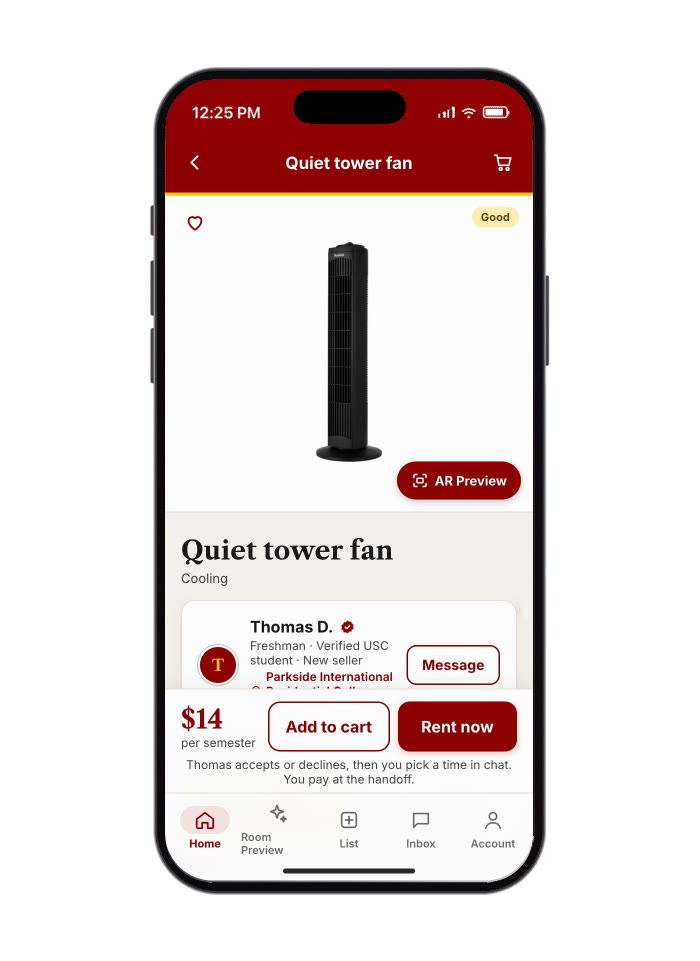
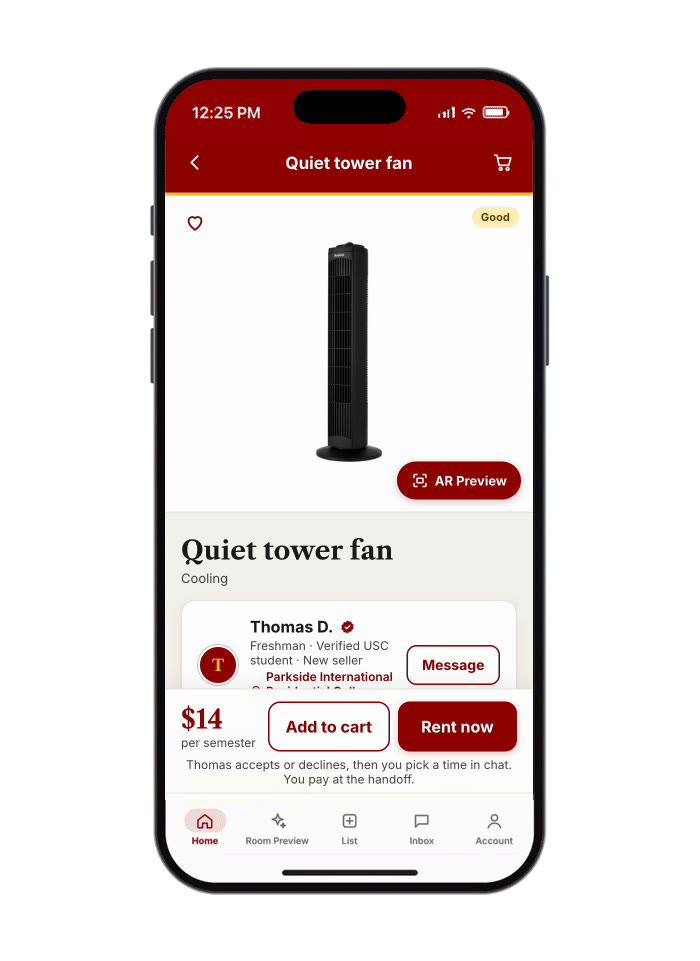
Update TroShare AR and messaging demos: remove cursor, match bottom bar

Changed region(s): [[0.27, 0.8429, 0.63, 0.9365], [0.66, 0.8429, 0.75, 0.9053]]

diff --git a/index.html b/index.html
@@ -408,13 +408,13 @@
                 <p>AR Preview places a life-size 3D model of the item in the student’s room through their phone camera, so they can check size and fit before committing to a rental.</p>
               </div>
               <figure class="fold-media staso-media troshare-phone">
-                <img class="scroll-gif" src="assets/troshare-ar-poster.jpg?v=8" data-gif="assets/troshare-ar.gif?v=8" alt="AR Preview placing a storage cart in a dorm room" />
+                <img class="scroll-gif" src="assets/troshare-ar-poster.jpg?v=9" data-gif="assets/troshare-ar.gif?v=9" alt="AR Preview placing a storage cart in a dorm room" />
               </figure>
             </section>
 
             <section class="fold-feature">
               <figure class="fold-media staso-media troshare-phone">
-                <img class="scroll-gif" src="assets/troshare-msg-poster.jpg?v=10" data-gif="assets/troshare-msg.gif?v=10" alt="Choosing rental options for a quiet tower fan, then messaging the Trojan seller" />
+                <img class="scroll-gif" src="assets/troshare-msg-poster.jpg?v=12" data-gif="assets/troshare-msg.gif?v=12" alt="Choosing rental options for a quiet tower fan, then messaging the Trojan seller" />
               </figure>
               <div class="fold-copy">
                 <h3>Talk to the Trojan selling it</h3>
